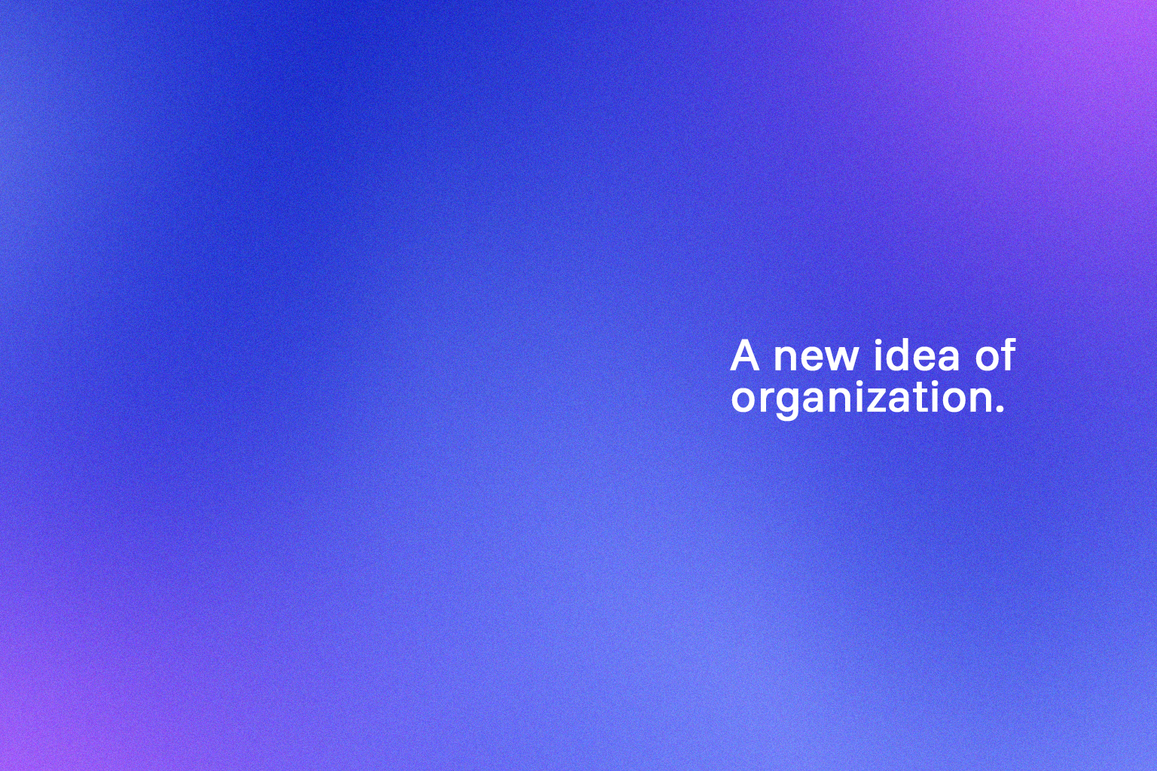
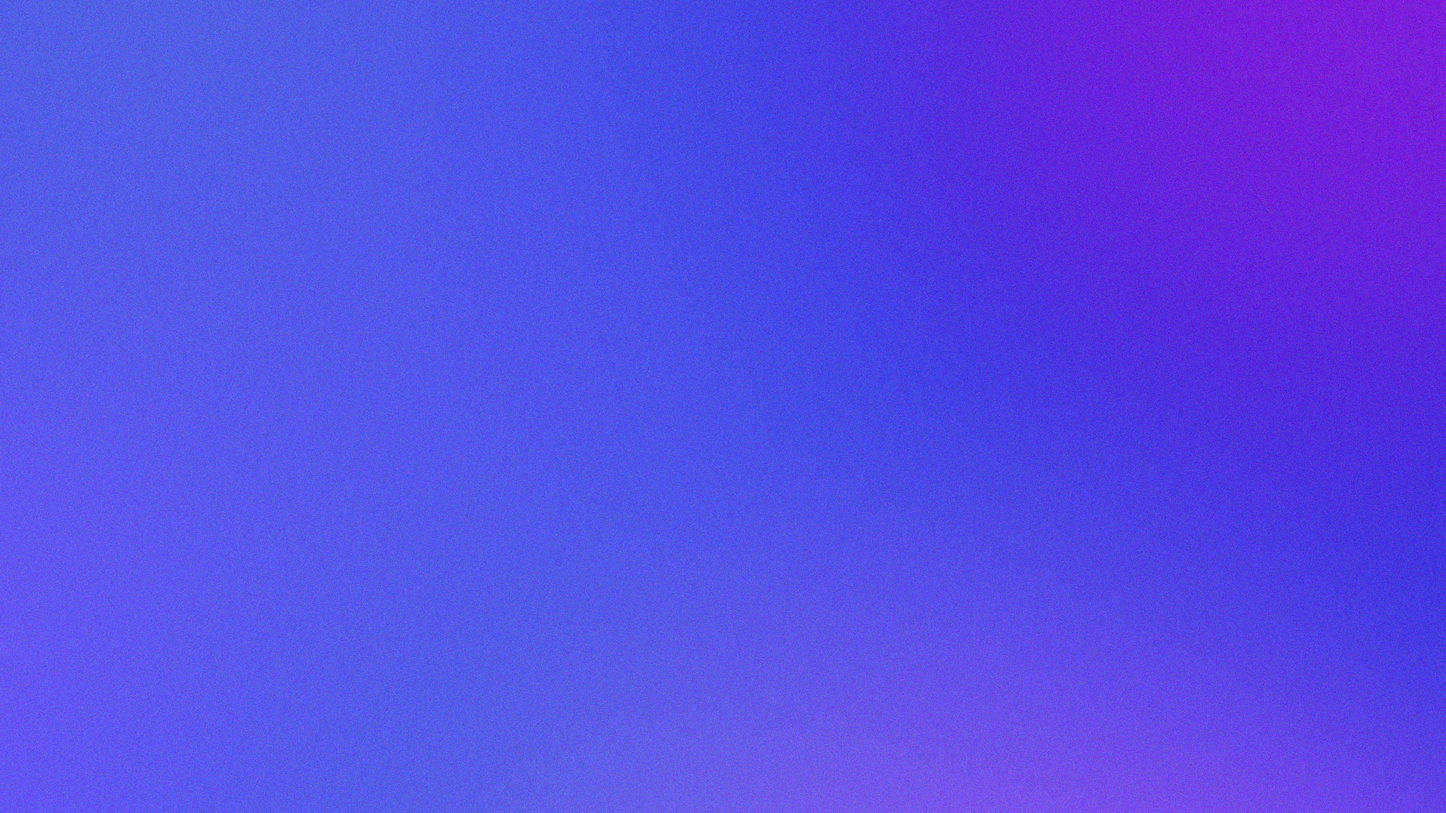
feat: refatorando a tela de register e criando componentes de listar task

diff --git a/frontend/src/pages/LoginPage/LoginPage.scss b/frontend/src/pages/LoginPage/LoginPage.scss
@@ -1,51 +1,74 @@
 @use '../../styles/variables.scss' as v;
 
 
-.body{
+.body {
 
     display: flex;
     flex-direction: row;
 
 
-    .main{
+    .main {
         height: 100vh;
         display: block;
         flex-direction: column;
         align-items: center;
-        justify-content:center;
-        min-width:50vw ;
+        justify-content: center;
+        min-width: 50vw;
         background-color: v.$snow-white;
         border-radius: 0 3rem 3rem 0;
         z-index: 2;
 
-        h1{
-            margin-bottom: 0;
-            font-size: 3.8rem;
+        h1 {
+            margin-bottom: 1rem;
+            font-size: 3.5rem;
             color: v.$btn-bg-purple;
+            margin-top: -1rem;
         }
 
-        .box{
+        button {
+            width: 18rem;
+            margin-top: 2rem;
+        }
+
+        .box {
             width: 100%;
             height: 100%;
             display: flex;
             flex-direction: column;
             align-items: center;
-            justify-content:center;
+            justify-content: center;
         }
     }
 
-    .aside{
+    .aside {
         width: 60vw;
         display: relative;
         margin-left: -10rem;
         z-index: 1;
 
-        .image{
-            width: auto;
-            height: 100vh;
-            object-fit: cover;
-            object-position:center;
-            margin-left: -13rem;
+        .container {
+            position: relative;
+
+            .text {
+                position: absolute;
+                color: white;
+                translate: (-50% -50%);
+                bottom: 35%;
+                left: 70%;
+                font-weight: 800;
+                font-size: 2rem;
+                
+            }
+
+            .image {
+                display: block;
+                width: auto;
+                height: 100vh;
+                object-fit: cover;
+                object-position: center;
+                margin-left: -13rem;
+                z-index: 1;
+            }
         }
     }
 }

diff --git a/frontend/src/pages/RegisterPage/RegisterUserPage.scss b/frontend/src/pages/RegisterPage/RegisterUserPage.scss
@@ -1,14 +1,73 @@
 @use '../../styles/variables.scss' as v;
 
-.container-section{
-    width: 30rem;
-    height: 38rem;
-    border-radius: 20px;
-    display: flex;
-    flex-direction: column;
-    align-items: center;
-}
 
-button{
-    margin-top: 2rem;
+.body {
+
+    display: flex;
+    flex-direction: row;
+
+
+    .main {
+        height: 100vh;
+        display: block;
+        flex-direction: column;
+        align-items: center;
+        justify-content: center;
+        min-width: 50vw;
+        background-color: v.$snow-white;
+        border-radius: 0 3rem 3rem 0;
+        z-index: 2;
+
+        h1 {
+            margin-bottom: 1rem;
+            font-size: 3.5rem;
+            color: v.$btn-bg-purple;
+            margin-top: -1rem;
+        }
+
+        button {
+            width: 18rem;
+        }
+
+        .box {
+            width: 100%;
+            height: 100%;
+            display: flex;
+            flex-direction: column;
+            align-items: center;
+            justify-content: center;
+        }
+    }
+
+    .aside {
+        width: 60vw;
+        display: relative;
+        margin-left: -10rem;
+        z-index: 1;
+
+        .container {
+            position: relative;
+
+            .text {
+                position: absolute;
+                color: white;
+                translate: (-50% -50%);
+                bottom: 35%;
+                left: 70%;
+                font-weight: 800;
+                font-size: 2rem;
+                
+            }
+
+            .image {
+                display: block;
+                width: auto;
+                height: 100vh;
+                object-fit: cover;
+                object-position: center;
+                margin-left: -13rem;
+                z-index: 1;
+            }
+        }
+    }
 }

diff --git a/frontend/src/pages/RegisterPage/RegisterUserPage.tsx b/frontend/src/pages/RegisterPage/RegisterUserPage.tsx
@@ -2,16 +2,27 @@ import './RegisterUserPage.scss';
 import RegisterForm from "../../components/forms/Register/RegisterForm";
 import { useRef } from "react";
 import type { IFormHandle } from '../../interfaces/IFormHandle';
+import brandingImg from '../../assets/branding.jpg';
 
 export default function RegisterUserPage(){
 
     const formRef = useRef<IFormHandle>(null);
 
     return (
-        <section className='container-section'>
-            <h1>Cadastrar</h1>
-            <RegisterForm ref = {formRef}></RegisterForm>
-            <button onClick={() => formRef.current?.submitForm()} >Criar conta</button>
-        </section>
+                <div className='body'>
+            <main className="main">
+                <div className='box'>
+                <h1>Cadastro</h1>
+                <RegisterForm ref={formRef}></RegisterForm>
+                <button onClick={() =>  formRef.current?.submitForm() }>Entrar</button>
+                </div>
+            </main>
+            <aside className="aside">
+                <div className='container'>
+                    <img className="image" src={brandingImg} alt="Branding"/>
+                    <text className="text" id="">A new idea of <br/> organization.</text>
+                </div>
+            </aside>
+        </div> 
     )
 }

diff --git a/frontend/src/pages/HomePage/HomePage.tsx b/frontend/src/pages/HomePage/HomePage.tsx
@@ -1,27 +1,15 @@
 import axios from "axios";
 import "./HomePage.scss";
 import { useEffect, useState } from "react";
+import NavBar from "../../components/common/nav/NavBar";
 
 export default function HomePage(){
 
-    const [message, setMessage] = useState("");
 
-    useEffect(() => {
 
-        const fetchMessage = async() => {
-            await axios.get("http://localhost:5044/home/tasks", {withCredentials: true})
-            .then(res => {
-                setMessage(res.data.message)
-            })
-            .catch(err => {
-                console.log("Erro ao buscar a mensagem", err)
-        })
-    }
-
-    fetchMessage();
-}, []);
-
-    return(<h1>
-        {message}
-    </h1>)
+    return(
+    <div>
+        <NavBar></NavBar>
+    </div>
+    )
 }

diff --git a/frontend/src/pages/LoginPage/LoginPage.tsx b/frontend/src/pages/LoginPage/LoginPage.tsx
@@ -16,10 +16,12 @@ export default function LoginPage(){
                 <LoginForm ref={formRef}></LoginForm>
                 <button onClick={() =>  formRef.current?.submitForm() }>Entrar</button>
                 </div>
-                
             </main>
             <aside className="aside">
-                <img className="image" src={brandingImg} alt="Branding" />
+                <div className='container'>
+                    <img className="image" src={brandingImg} alt="Branding"/>
+                    <text className="text" id="">A new idea of <br/> organization.</text>
+                </div>
             </aside>
         </div> 
     )

diff --git a/frontend/src/App.tsx b/frontend/src/App.tsx
@@ -1,5 +1,5 @@
 import { Routes, Route } from 'react-router-dom';
-import './App.css'
+import './App.scss'
 
 // Components
 import RegisterUserPage from "./pages/RegisterPage/RegisterUserPage"

diff --git a/frontend/src/components/common/nav/NavBar.scss b/frontend/src/components/common/nav/NavBar.scss
@@ -1,0 +1,10 @@
+@use '../../../styles/variables.scss' as v;
+
+.nav{
+    position: absolute;
+    top: 0;
+    height: 3rem;
+    width: 100vw;
+    box-shadow: v.$shadow-1;
+    
+}

diff --git a/frontend/src/components/common/nav/NavBar.tsx b/frontend/src/components/common/nav/NavBar.tsx
@@ -1,0 +1,10 @@
+import "./NavBar.scss";
+
+export default function NavBar(){
+    
+    return(
+        <nav className="nav">
+
+        </nav>
+    );
+}

diff --git a/frontend/src/components/ui/cards/Cards.tsx b/frontend/src/components/ui/cards/Cards.tsx
@@ -1,0 +1,5 @@
+import "./Cards.scss";
+
+export default function Cards(){
+    
+}

diff --git a/frontend/src/components/ui/cards/Cards.scss b/frontend/src/components/ui/cards/Cards.scss
@@ -1,0 +1,1 @@
+@use '../../../styles/variables.scss' as v;
